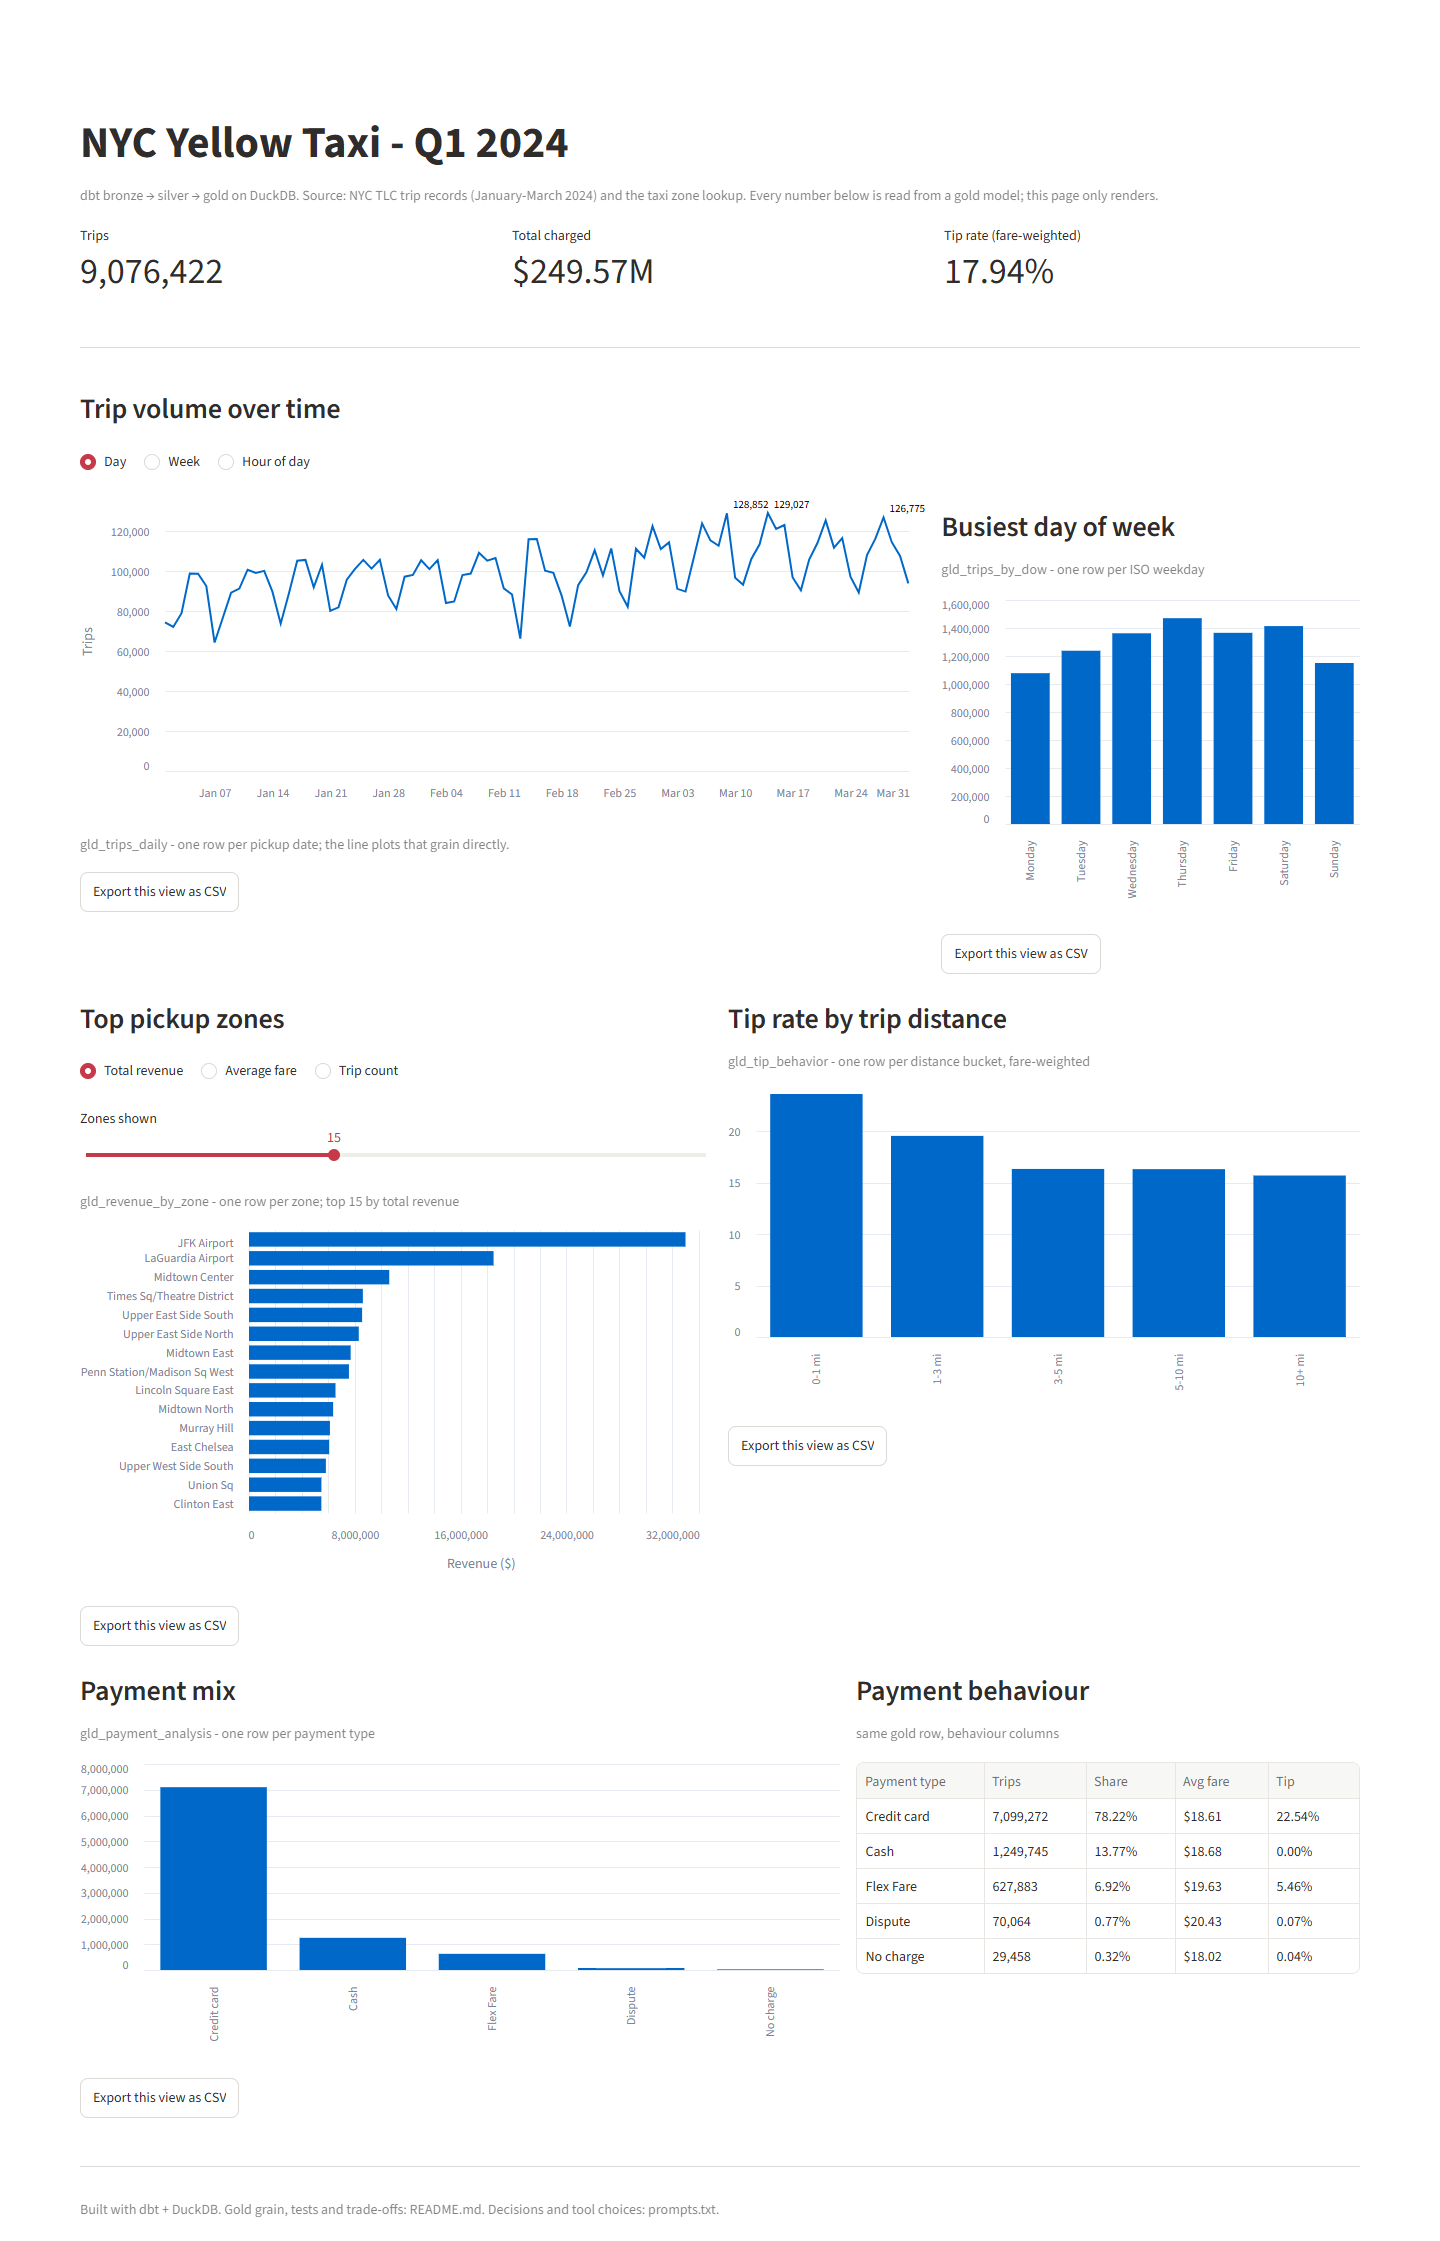
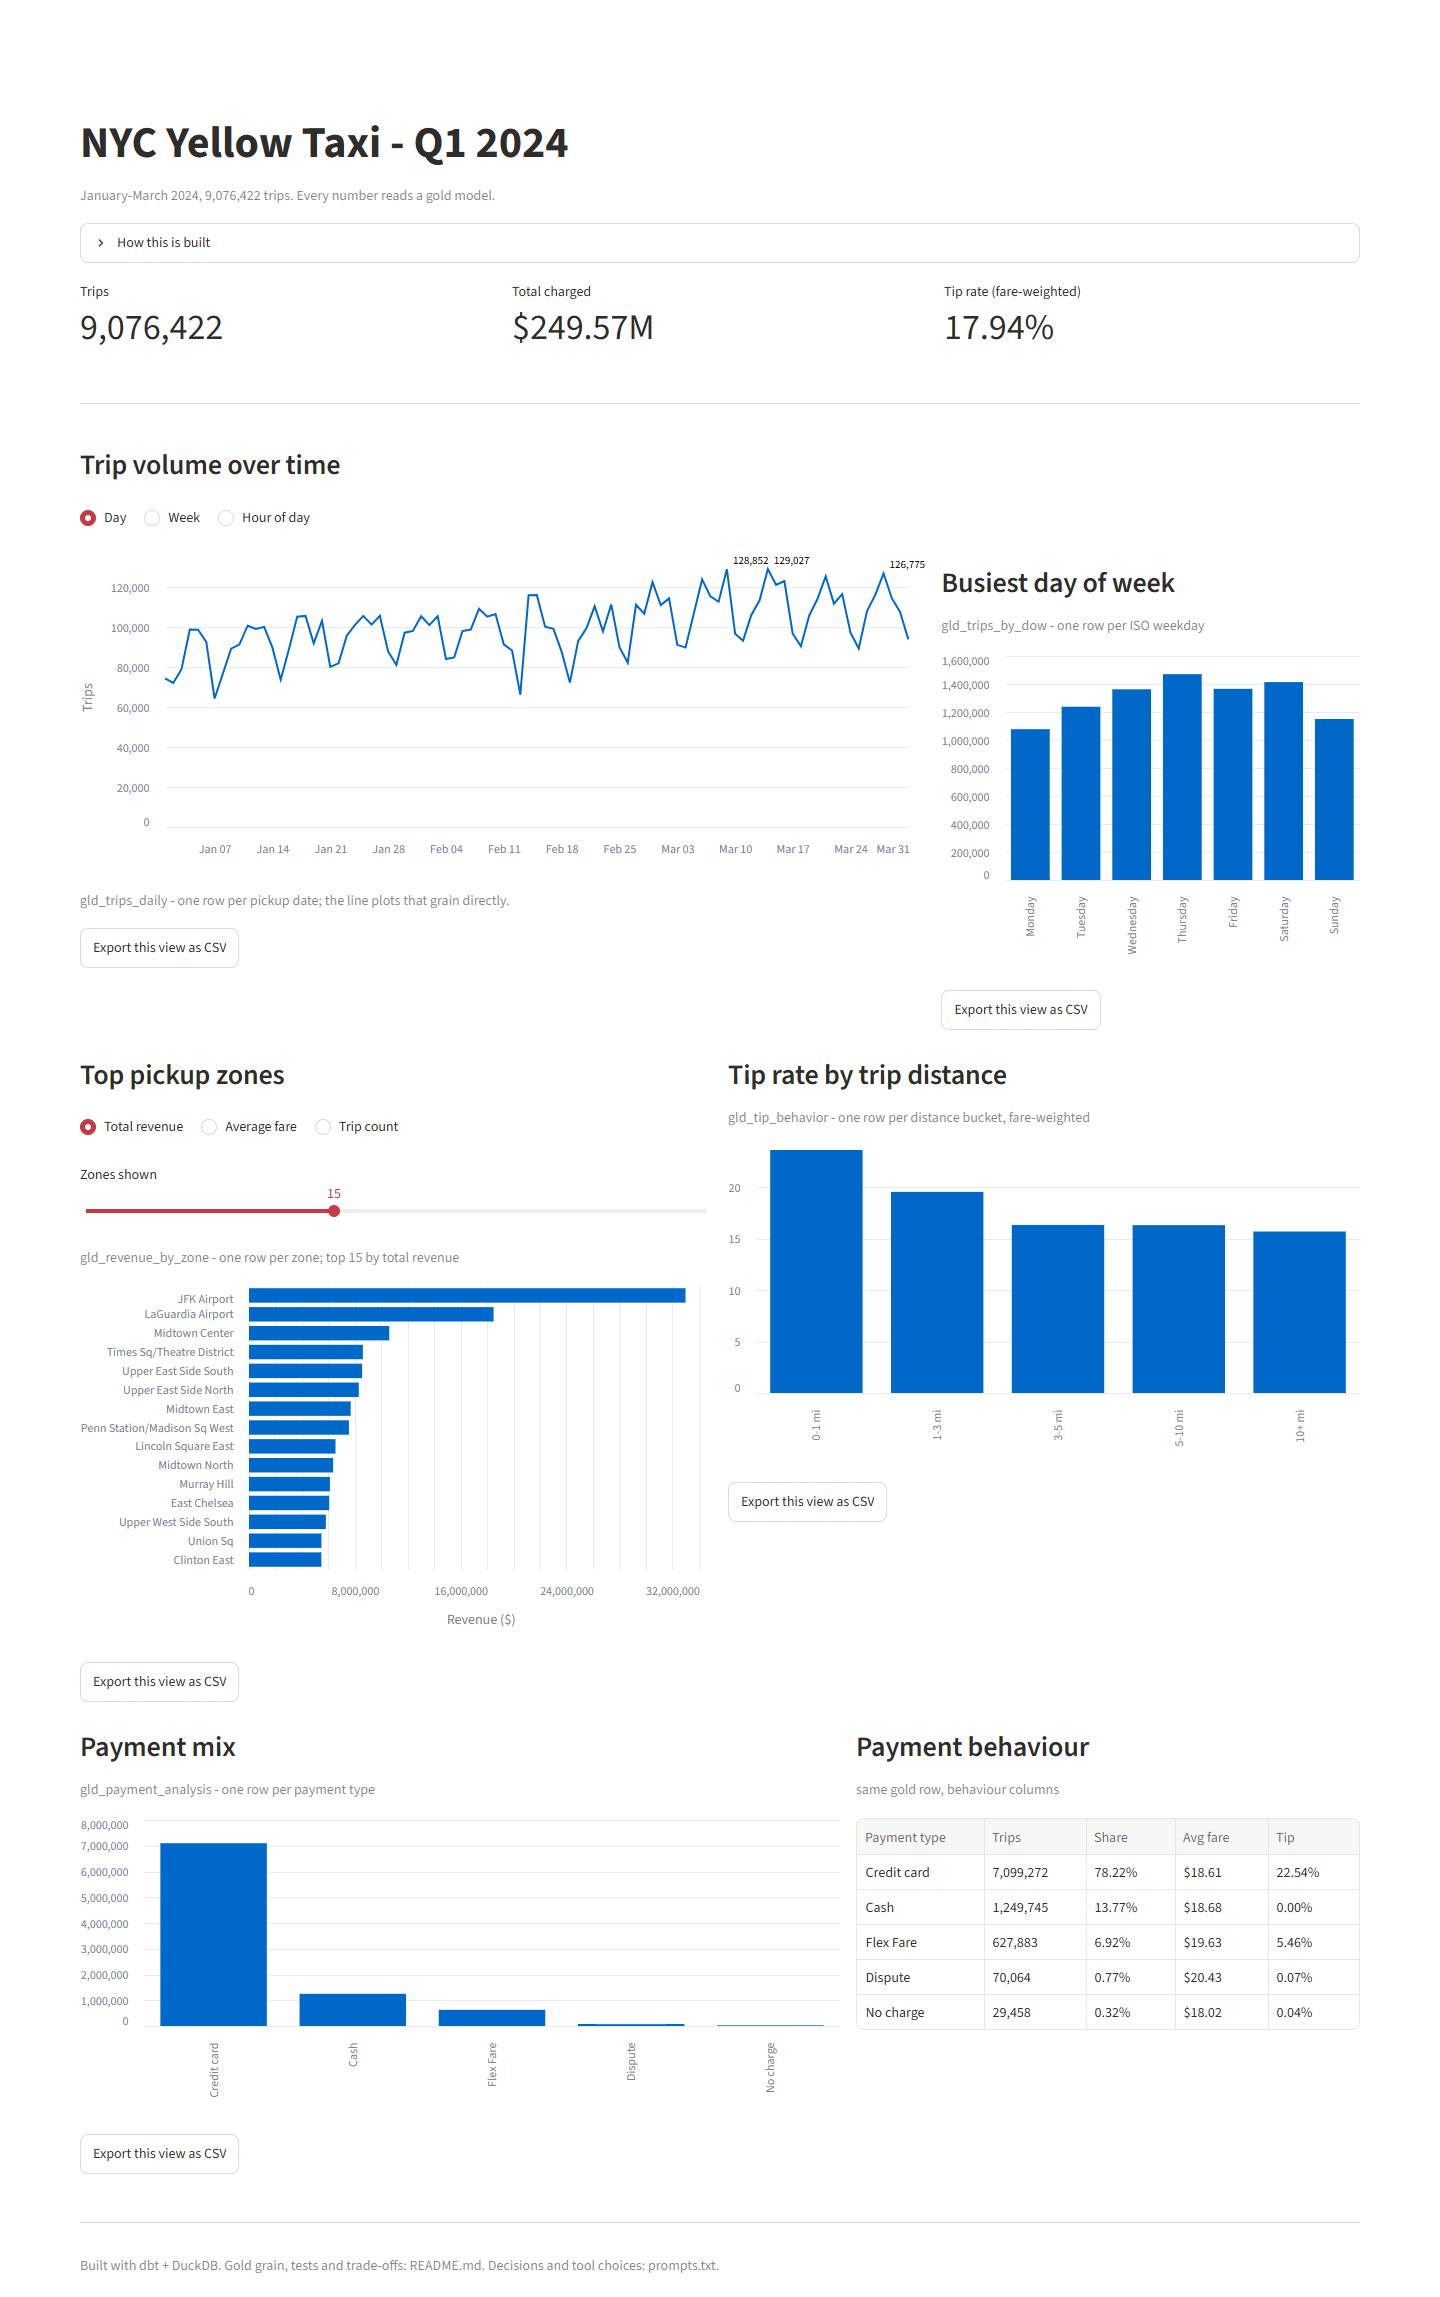
feat(app): move the build notes into a How this is built expander

diff --git a/streamlit/app.py b/streamlit/app.py
@@ -54,17 +54,25 @@ if not DB_PATH.exists():
     st.stop()
 
 st.title("NYC Yellow Taxi - Q1 2024")
-st.caption(
-    "dbt bronze -> silver -> gold on DuckDB. Source: NYC TLC trip records "
-    "(January-March 2024) and the taxi zone lookup. Every number below is read "
-    "from a gold model; this page only renders."
-)
-if USING_DEMO:
-    st.caption(
-        "Demo snapshot: the eight gold tables only (`data/demo`), so this page runs "
-        "without the 1.4 GB local build. Run the pipeline locally for the full "
-        "bronze-to-gold rebuild."
+st.caption("January-March 2024, 9,076,422 trips. Every number reads a gold model.")
+
+with st.expander("How this is built"):
+    st.markdown(
+        "dbt bronze -> silver -> gold on DuckDB. Source: NYC TLC trip records "
+        "(January-March 2024) and the taxi zone lookup. The gold tables are "
+        "chart-shaped; this page only renders them, it never aggregates."
     )
+    if USING_DEMO:
+        st.markdown(
+            "This hosted copy reads the committed gold-only snapshot "
+            "(`data/demo/nyc_taxi_gold.duckdb`), so it runs without rebuilding the "
+            "1.4 GB local database. Run the pipeline locally for the full "
+            "bronze-to-gold rebuild."
+        )
+    else:
+        st.markdown(
+            "Running against the full local database built by `dbt build`."
+        )
 
 kpi = query("select trips, total_revenue, tip_pct from gld_trip_summary")
 if not has_rows(kpi, "gld_trip_summary"):

diff --git a/README.md b/README.md
@@ -14,9 +14,10 @@ Rendered model documentation: https://vonnerco.github.io/nyc-taxi-analytics/
 **App:** [vonnerco-nyc-taxi-analytics-streamlitapp-idkoou.streamlit.app](https://vonnerco-nyc-taxi-analytics-streamlitapp-idkoou.streamlit.app)
 
 The deployed copy reads the committed gold-only snapshot
-(`data/demo/nyc_taxi_gold.duckdb`, 2 MB) and says so in a caption, so the hosted
-app needs no 1.4 GB build. Streamlit Cloud sleeps an idle app; the first load may
-take half a minute to wake. The quick start below builds the real pipeline locally.
+(`data/demo/nyc_taxi_gold.duckdb`, 2 MB) and says so in its "How this is built"
+expander, so the hosted app needs no 1.4 GB build. Streamlit Cloud sleeps an idle
+app; the first load may take half a minute to wake. The quick start below builds
+the real pipeline locally.
 
 [![Deploy to Streamlit](https://static.streamlit.io/badges/streamlit_badge_black_white.svg)](https://share.streamlit.io/deploy?repository=vonnerco/nyc-taxi-analytics&branch=main&mainModule=streamlit/app.py)
 
